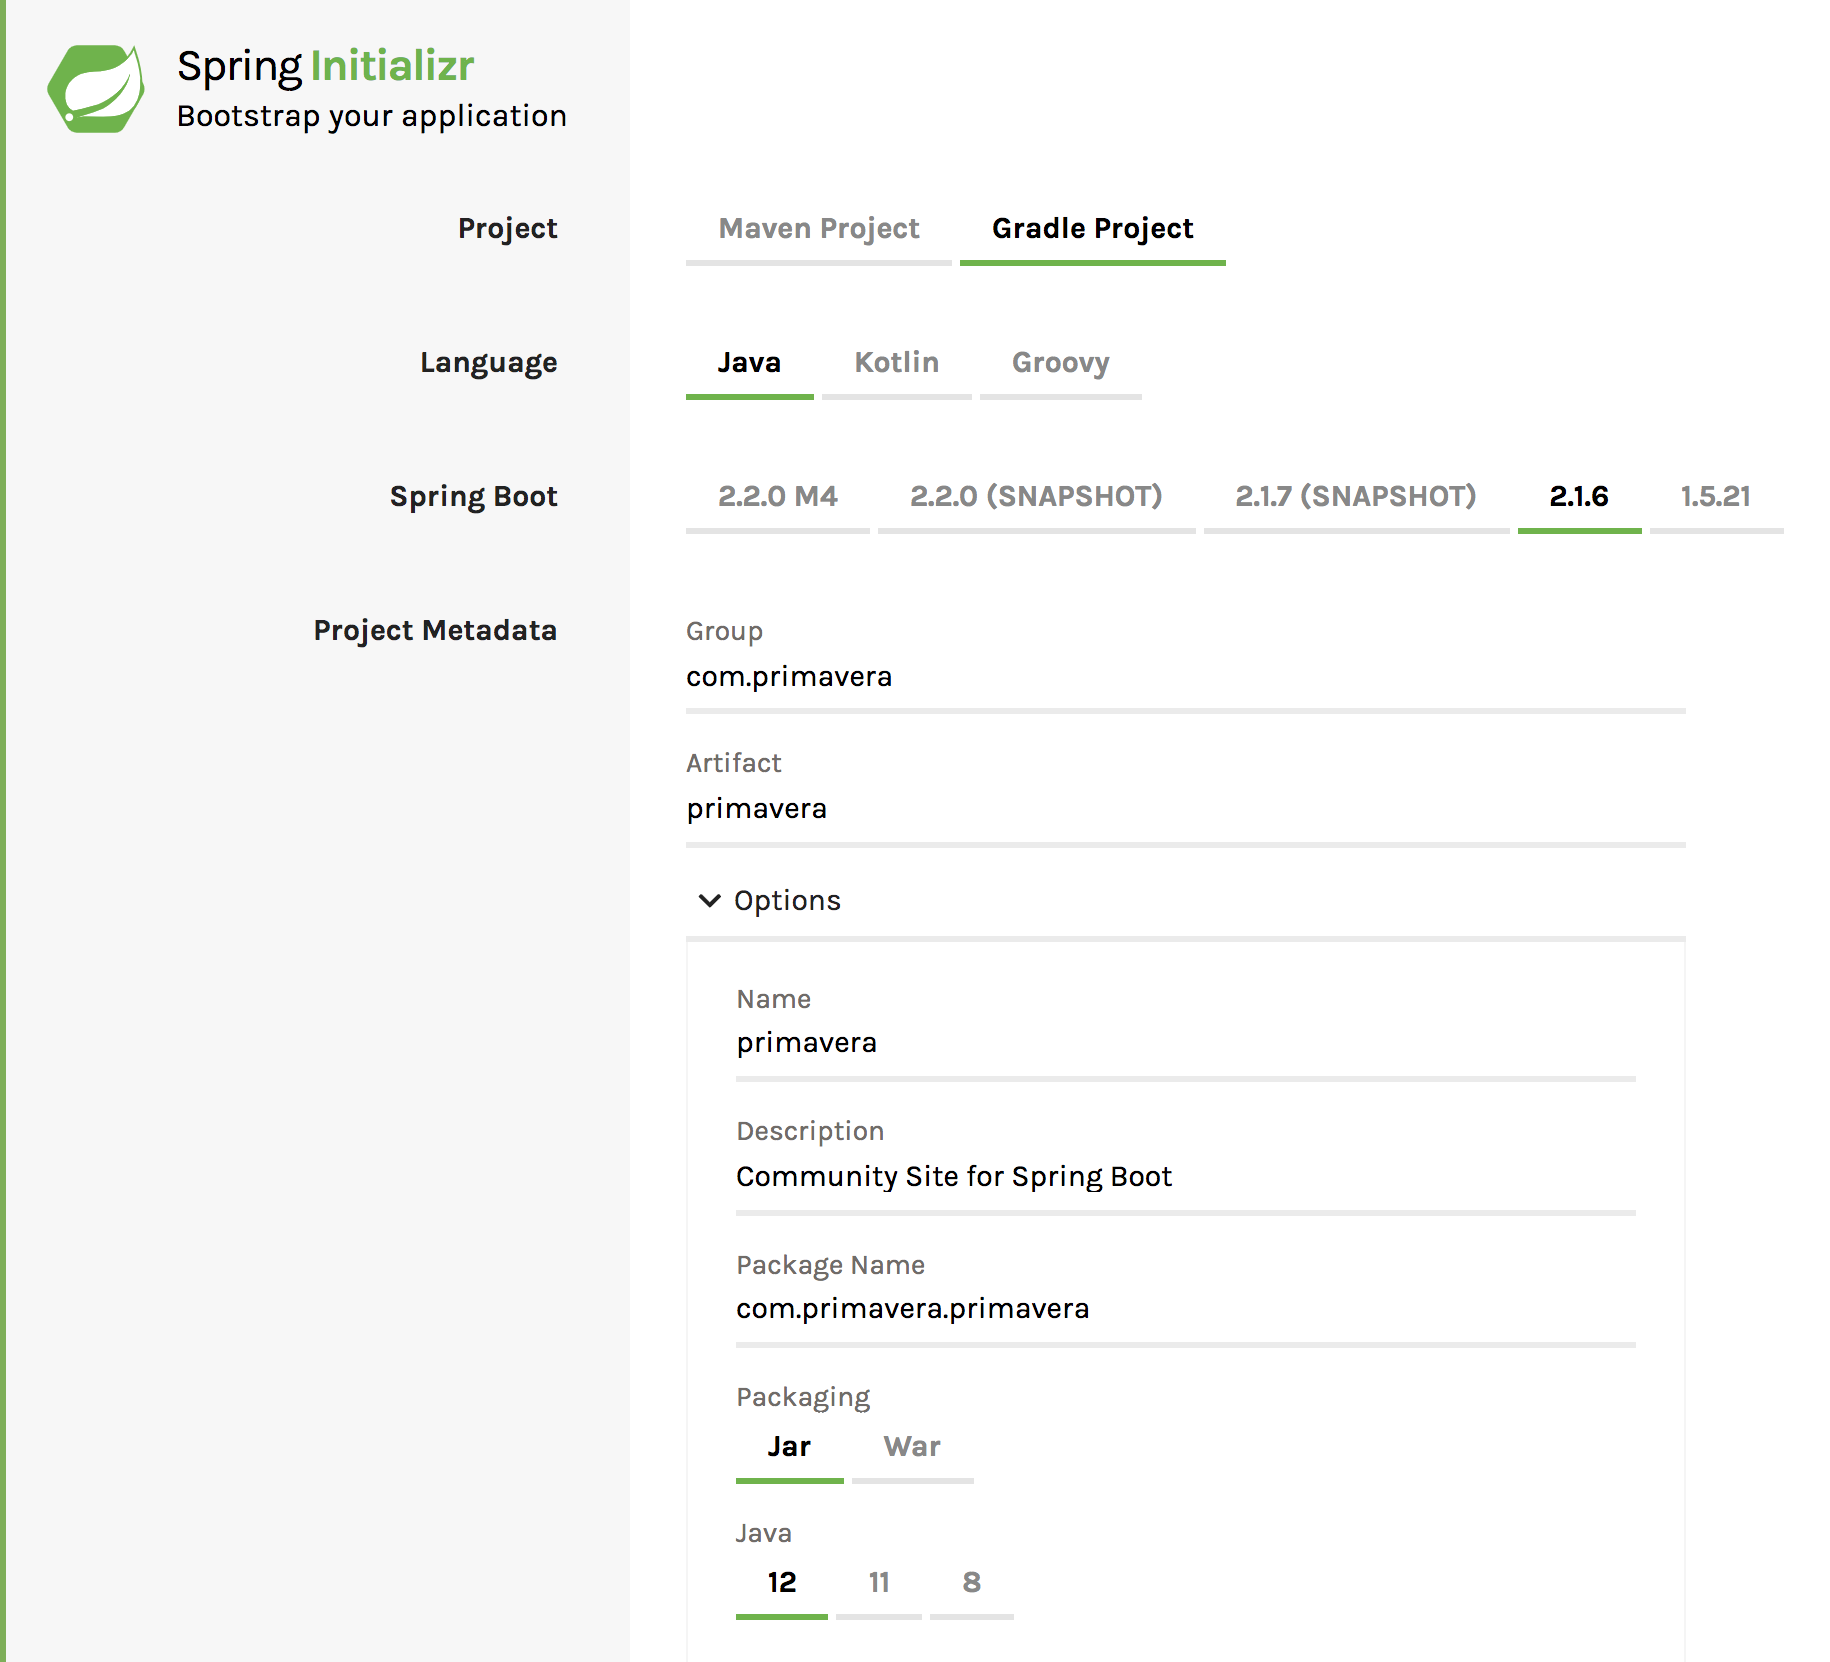
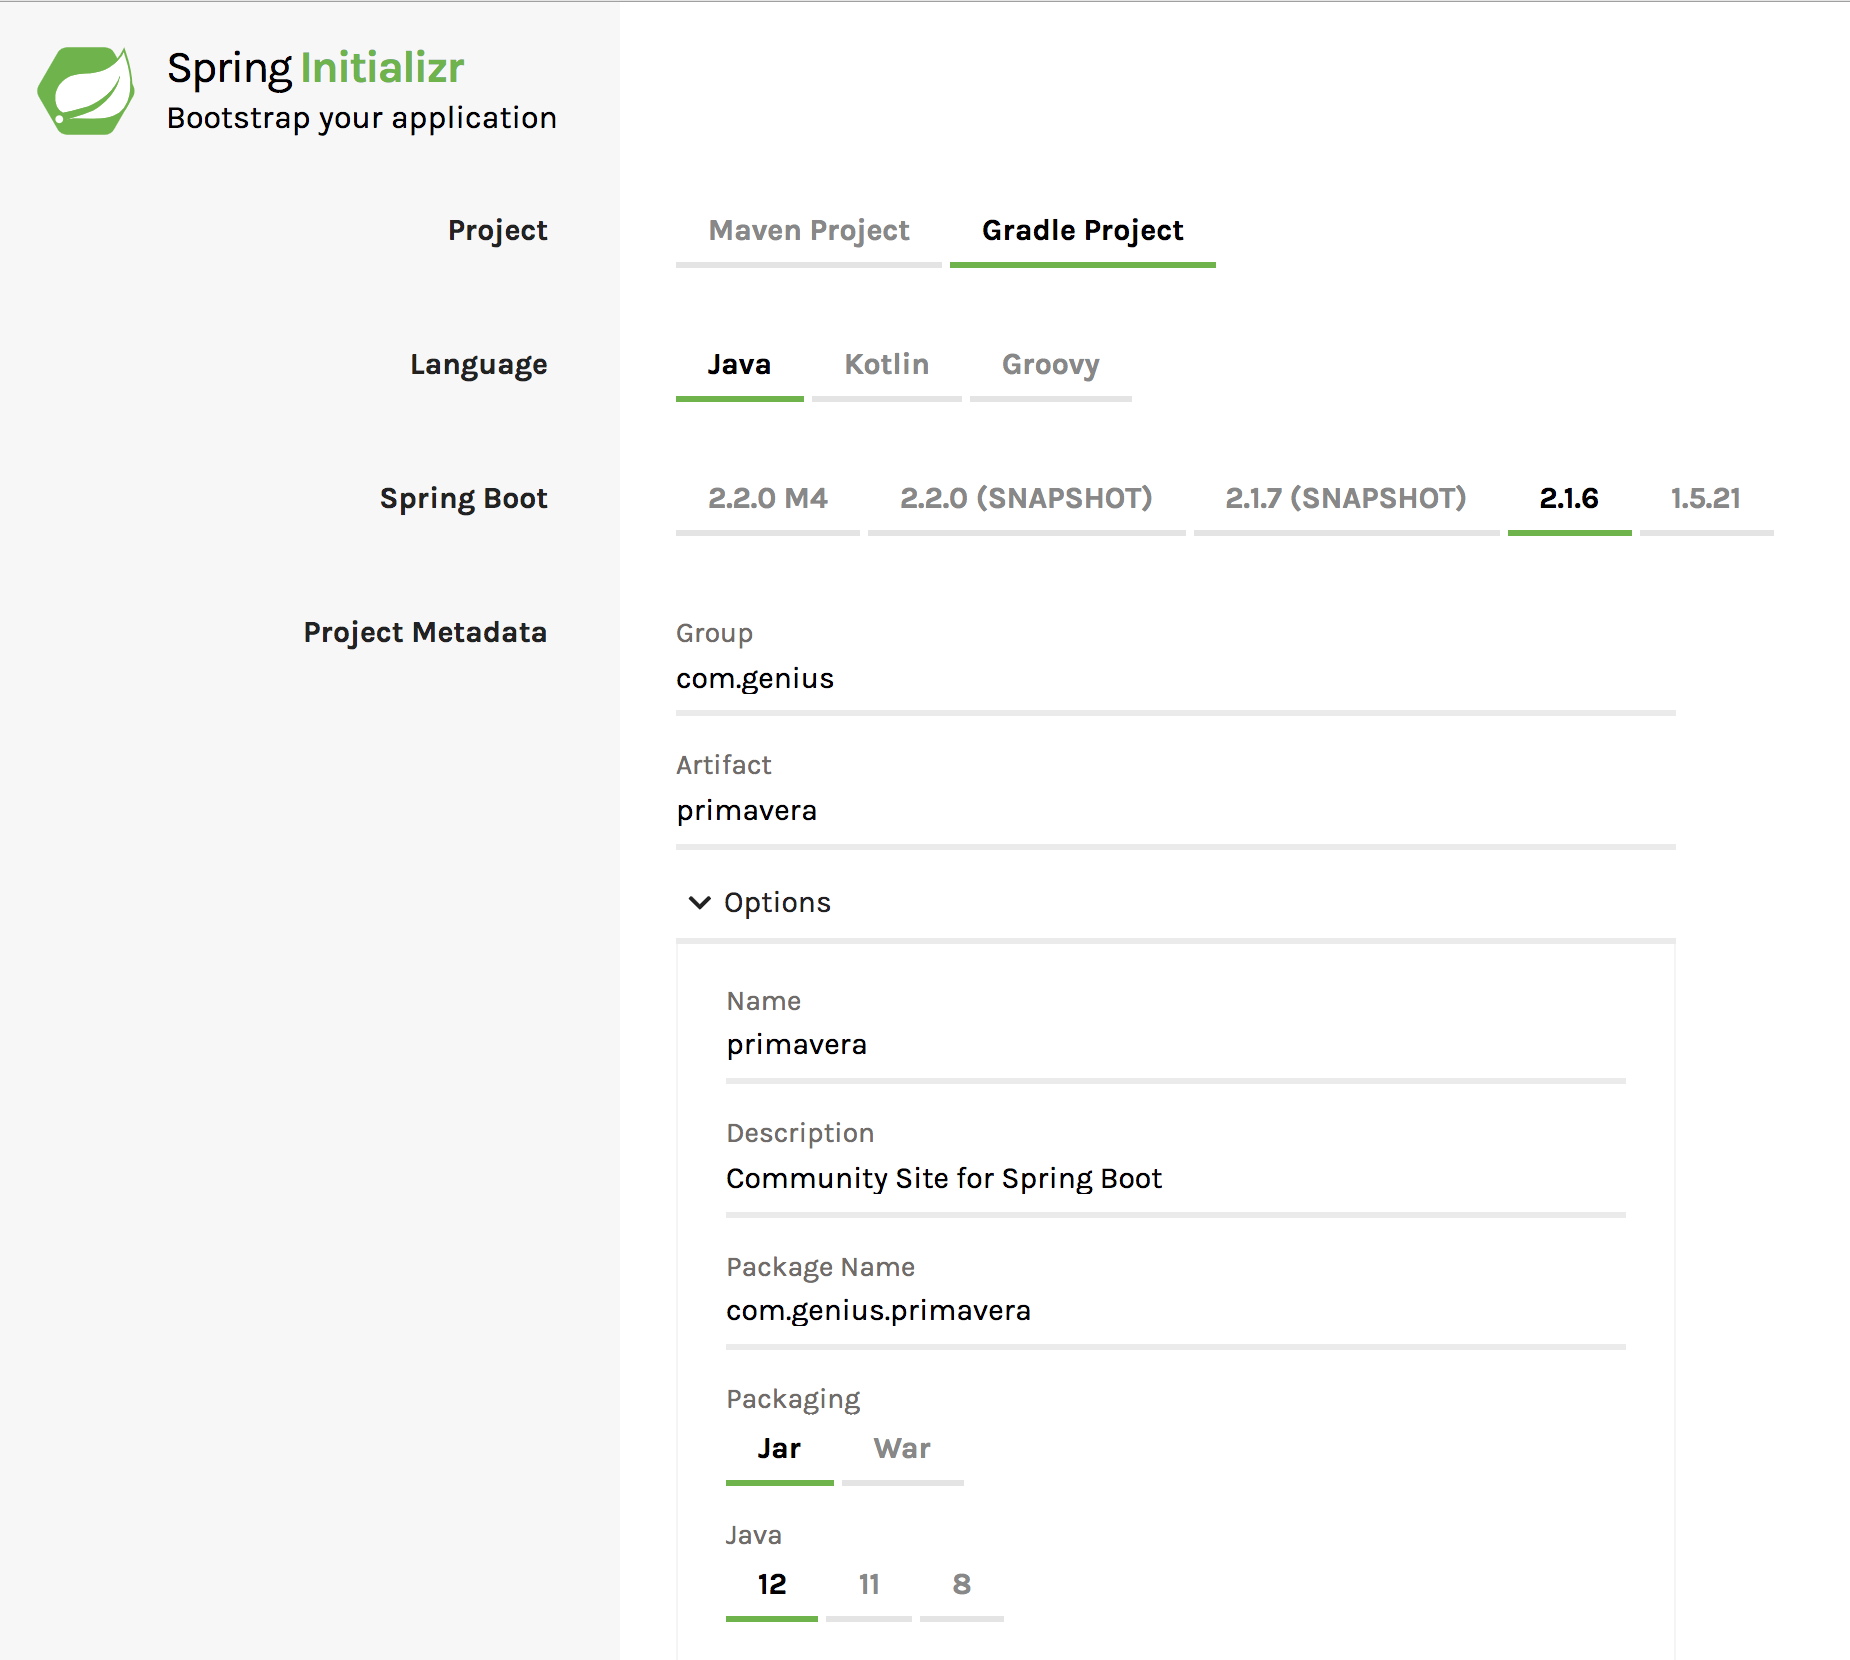
스프링부트 챕터 02 수정

diff --git a/_posts/2019-07-22-Primavera-Chap02.md b/_posts/2019-07-22-Primavera-Chap02.md
@@ -28,9 +28,10 @@ comments: true
 
 ## 스프링 부트 프로젝트 생성
 스프링 부트 프로젝트를 생성하는 방법은 여러가지가 존재합니다. 그중에 잡근이 가장 용이한 [Spring Initializr](https://start.spring.io) 사이트를 통한 스프링 부트 프로젝트 생성 방법을 알아 보도록 하겠습니다.
-프로젝트는 Gradle Project를 랭귀지는 Java 스프링 부트 버전은 최신 버전(2.1.6)을 선택합니다. 그리고 Project Metadata는 아래 이미지를 참고 하시기 바랍니다.
+프로젝트는 Gradle Project를 랭귀지는 Java 스프링 부트 버전은 최신 버전(2.1.6)을 선택합니다. 그리고 Project Metadata, Dependencies는 아래 이미지를 참고 하시기 바랍니다.
 
 ![Bootstrap your applications](/assets/images/books/primavera/chap02/bootstrap-your-applications.png)
+![dependencies](/assets/images/books/primavera/chap02/dependencies.png)
 
 ## Hello World
 
